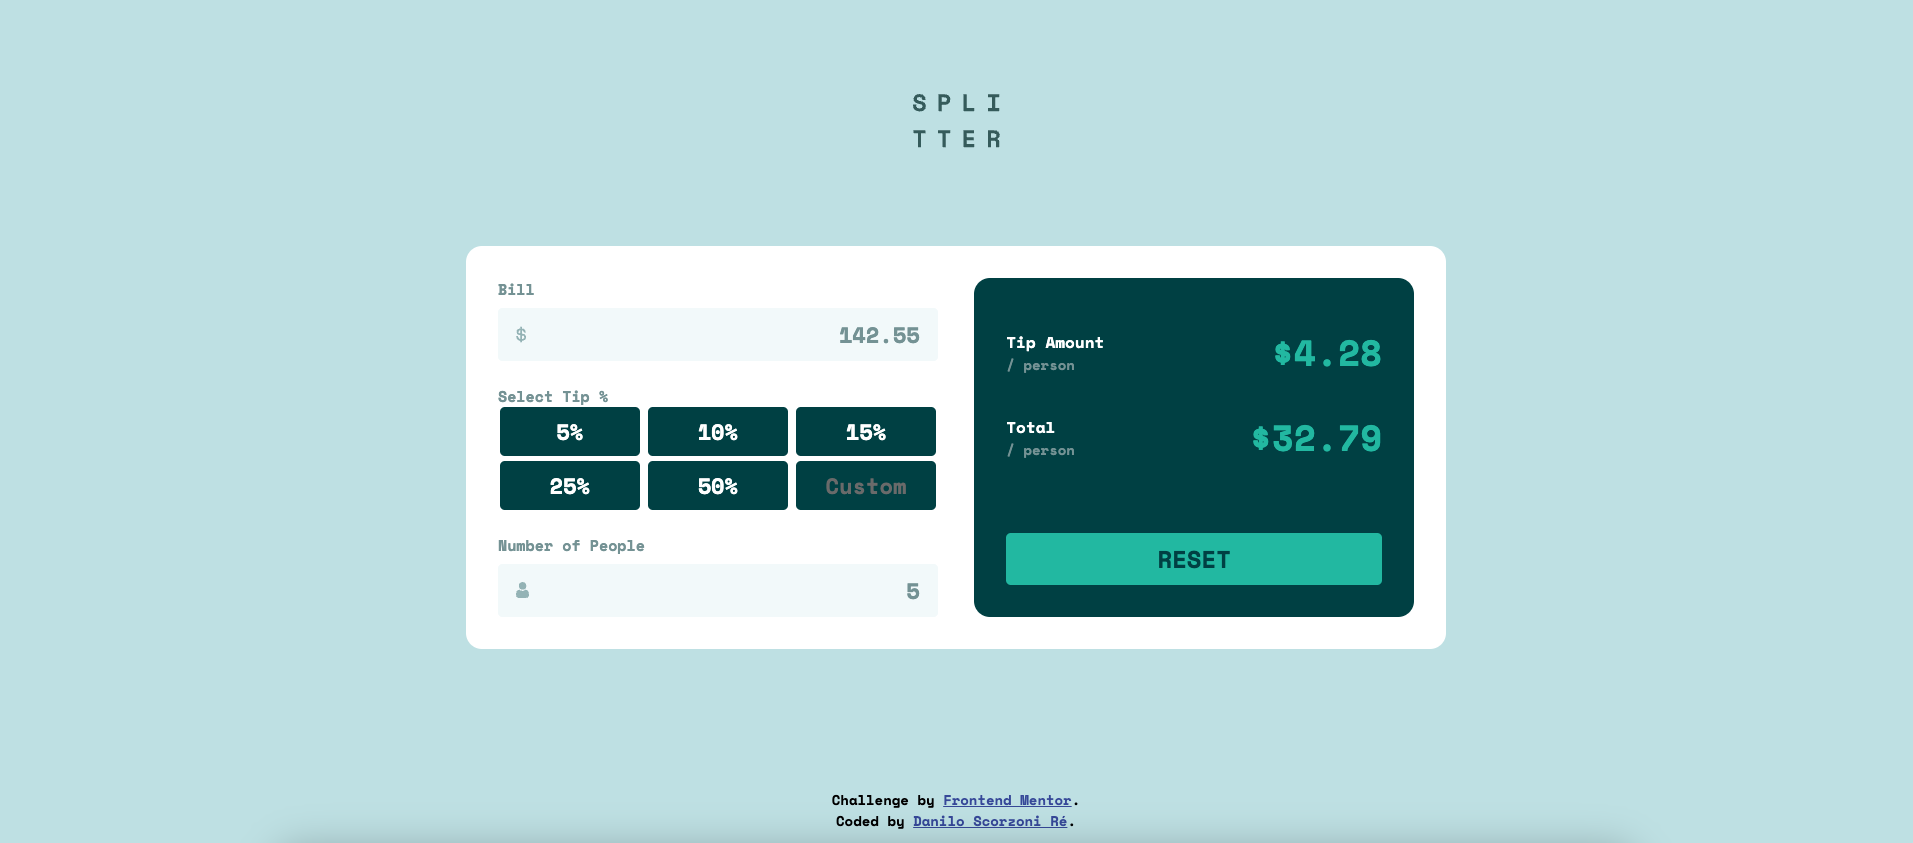
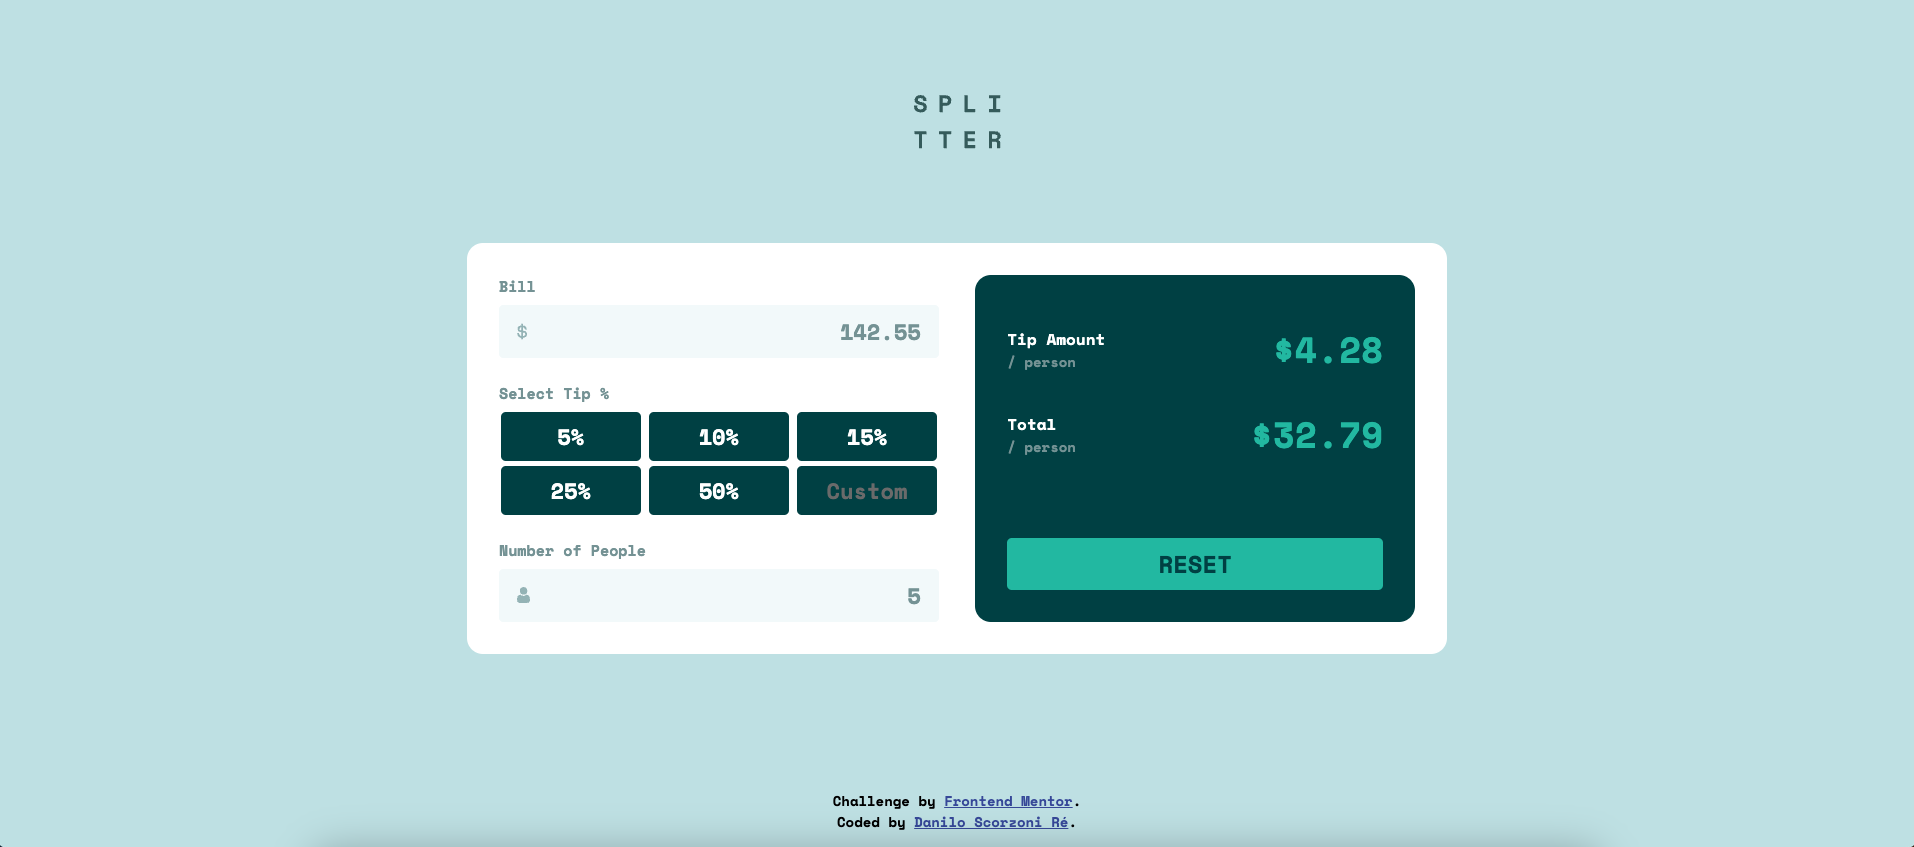
Adjustment on tip h2.

diff --git a/index.html b/index.html
@@ -26,7 +26,7 @@
                     </div>
                 </div>
                 <div>
-                    <h2>Select Tip %</h2>
+                    <h2 class="tip-h2">Select Tip %</h2>
                     <div class="tip-buttons-box">
                         <label for="5">
                             <input type="radio" name="tip-value" id="5" value="5" />

diff --git a/style.css b/style.css
@@ -60,6 +60,10 @@ form {
     gap: 1.5rem;
 }
 
+.tip-h2 {
+    margin-bottom: 0.5rem;
+}
+
 .input-header {
     display: flex;
     justify-content: space-between;
